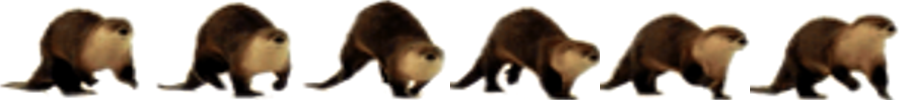
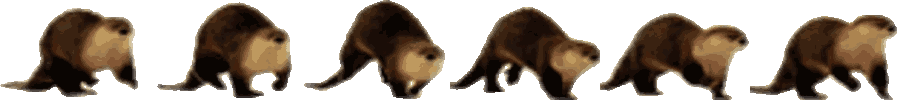
[OCD] image optimisation

diff --git a/src/main/java/uk/co/oliverdelange/otterhopper/framework/AndroidView.java b/src/main/java/uk/co/oliverdelange/otterhopper/framework/AndroidView.java
@@ -3,6 +3,7 @@ package uk.co.oliverdelange.otterhopper.framework;
 import android.graphics.Bitmap;
 import android.graphics.Canvas;
 import android.graphics.Rect;
+import android.util.Log;
 import android.view.SurfaceHolder;
 import android.view.SurfaceView;
 
@@ -18,7 +19,6 @@ public class AndroidView extends SurfaceView implements Runnable {
         this.game = game;
         this.framebuffer = framebuffer;
         this.holder = getHolder();
-
     }
 
     public void resume() {
@@ -32,22 +32,23 @@ public class AndroidView extends SurfaceView implements Runnable {
         Rect dstRect = new Rect();
         long startTime = System.nanoTime();
         while(running) {
-            if(!holder.getSurface().isValid())
+            if(!holder.getSurface().isValid()) {
+//                Log.e("GameState", "Surface isn't valid");
                 continue;
-
+            }
 
             float deltaTime = (System.nanoTime() - startTime) / 10000000.000f;
             startTime = System.nanoTime();
 
-            if (deltaTime > 3.15){
-                deltaTime = (float) 3.15;
+            if (deltaTime > 5){
+                Log.d("GameState", "deltaTime was " + deltaTime);
+                deltaTime = (float) 5;
+            } else {
+//                Log.d("GameState","deltaTime was " + deltaTime);
             }
-
 
             game.getCurrentScreen().update(deltaTime);
             game.getCurrentScreen().paint();
-
-
 
             Canvas canvas = holder.lockCanvas();
             canvas.getClipBounds(dstRect);

diff --git a/src/main/java/uk/co/oliverdelange/otterhopper/screen/GameScreen.java b/src/main/java/uk/co/oliverdelange/otterhopper/screen/GameScreen.java
@@ -4,6 +4,7 @@ import android.content.Context;
 import android.content.SharedPreferences;
 import android.graphics.Paint;
 import android.graphics.Typeface;
+import android.util.Log;
 import uk.co.oliverdelange.otterhopper.Assets;
 import uk.co.oliverdelange.otterhopper.R;
 import uk.co.oliverdelange.otterhopper.framework.AndroidGame;
@@ -84,7 +85,7 @@ public class GameScreen extends Screen {
     private void updateEnemies(float deltaTime) {
         if (appearingSpritePool.timer.enemyShouldAppear(deltaTime)) {
             long time = System.currentTimeMillis();
-            System.out.println("A wild clefairy appeared after " + (time - enemyTracker) + " milliseconds!");
+            Log.i("Sprites", "A wild clefairy appeared after " + (time - enemyTracker) + " milliseconds!");
             enemyTracker = time;
             appearingSpritePool.useEnemy();
         }
@@ -132,7 +133,7 @@ public class GameScreen extends Screen {
     @Override
     public void paint() {
         Graphics g = game.getGraphics();
-        g.drawARGB(255, 0, 0, 255); //wipe scren and draw blue
+//        g.drawARGB(255, 0, 0, 255); //wipe scren and draw blue
 
         background.draw(g);
         drawEnemies(g);
